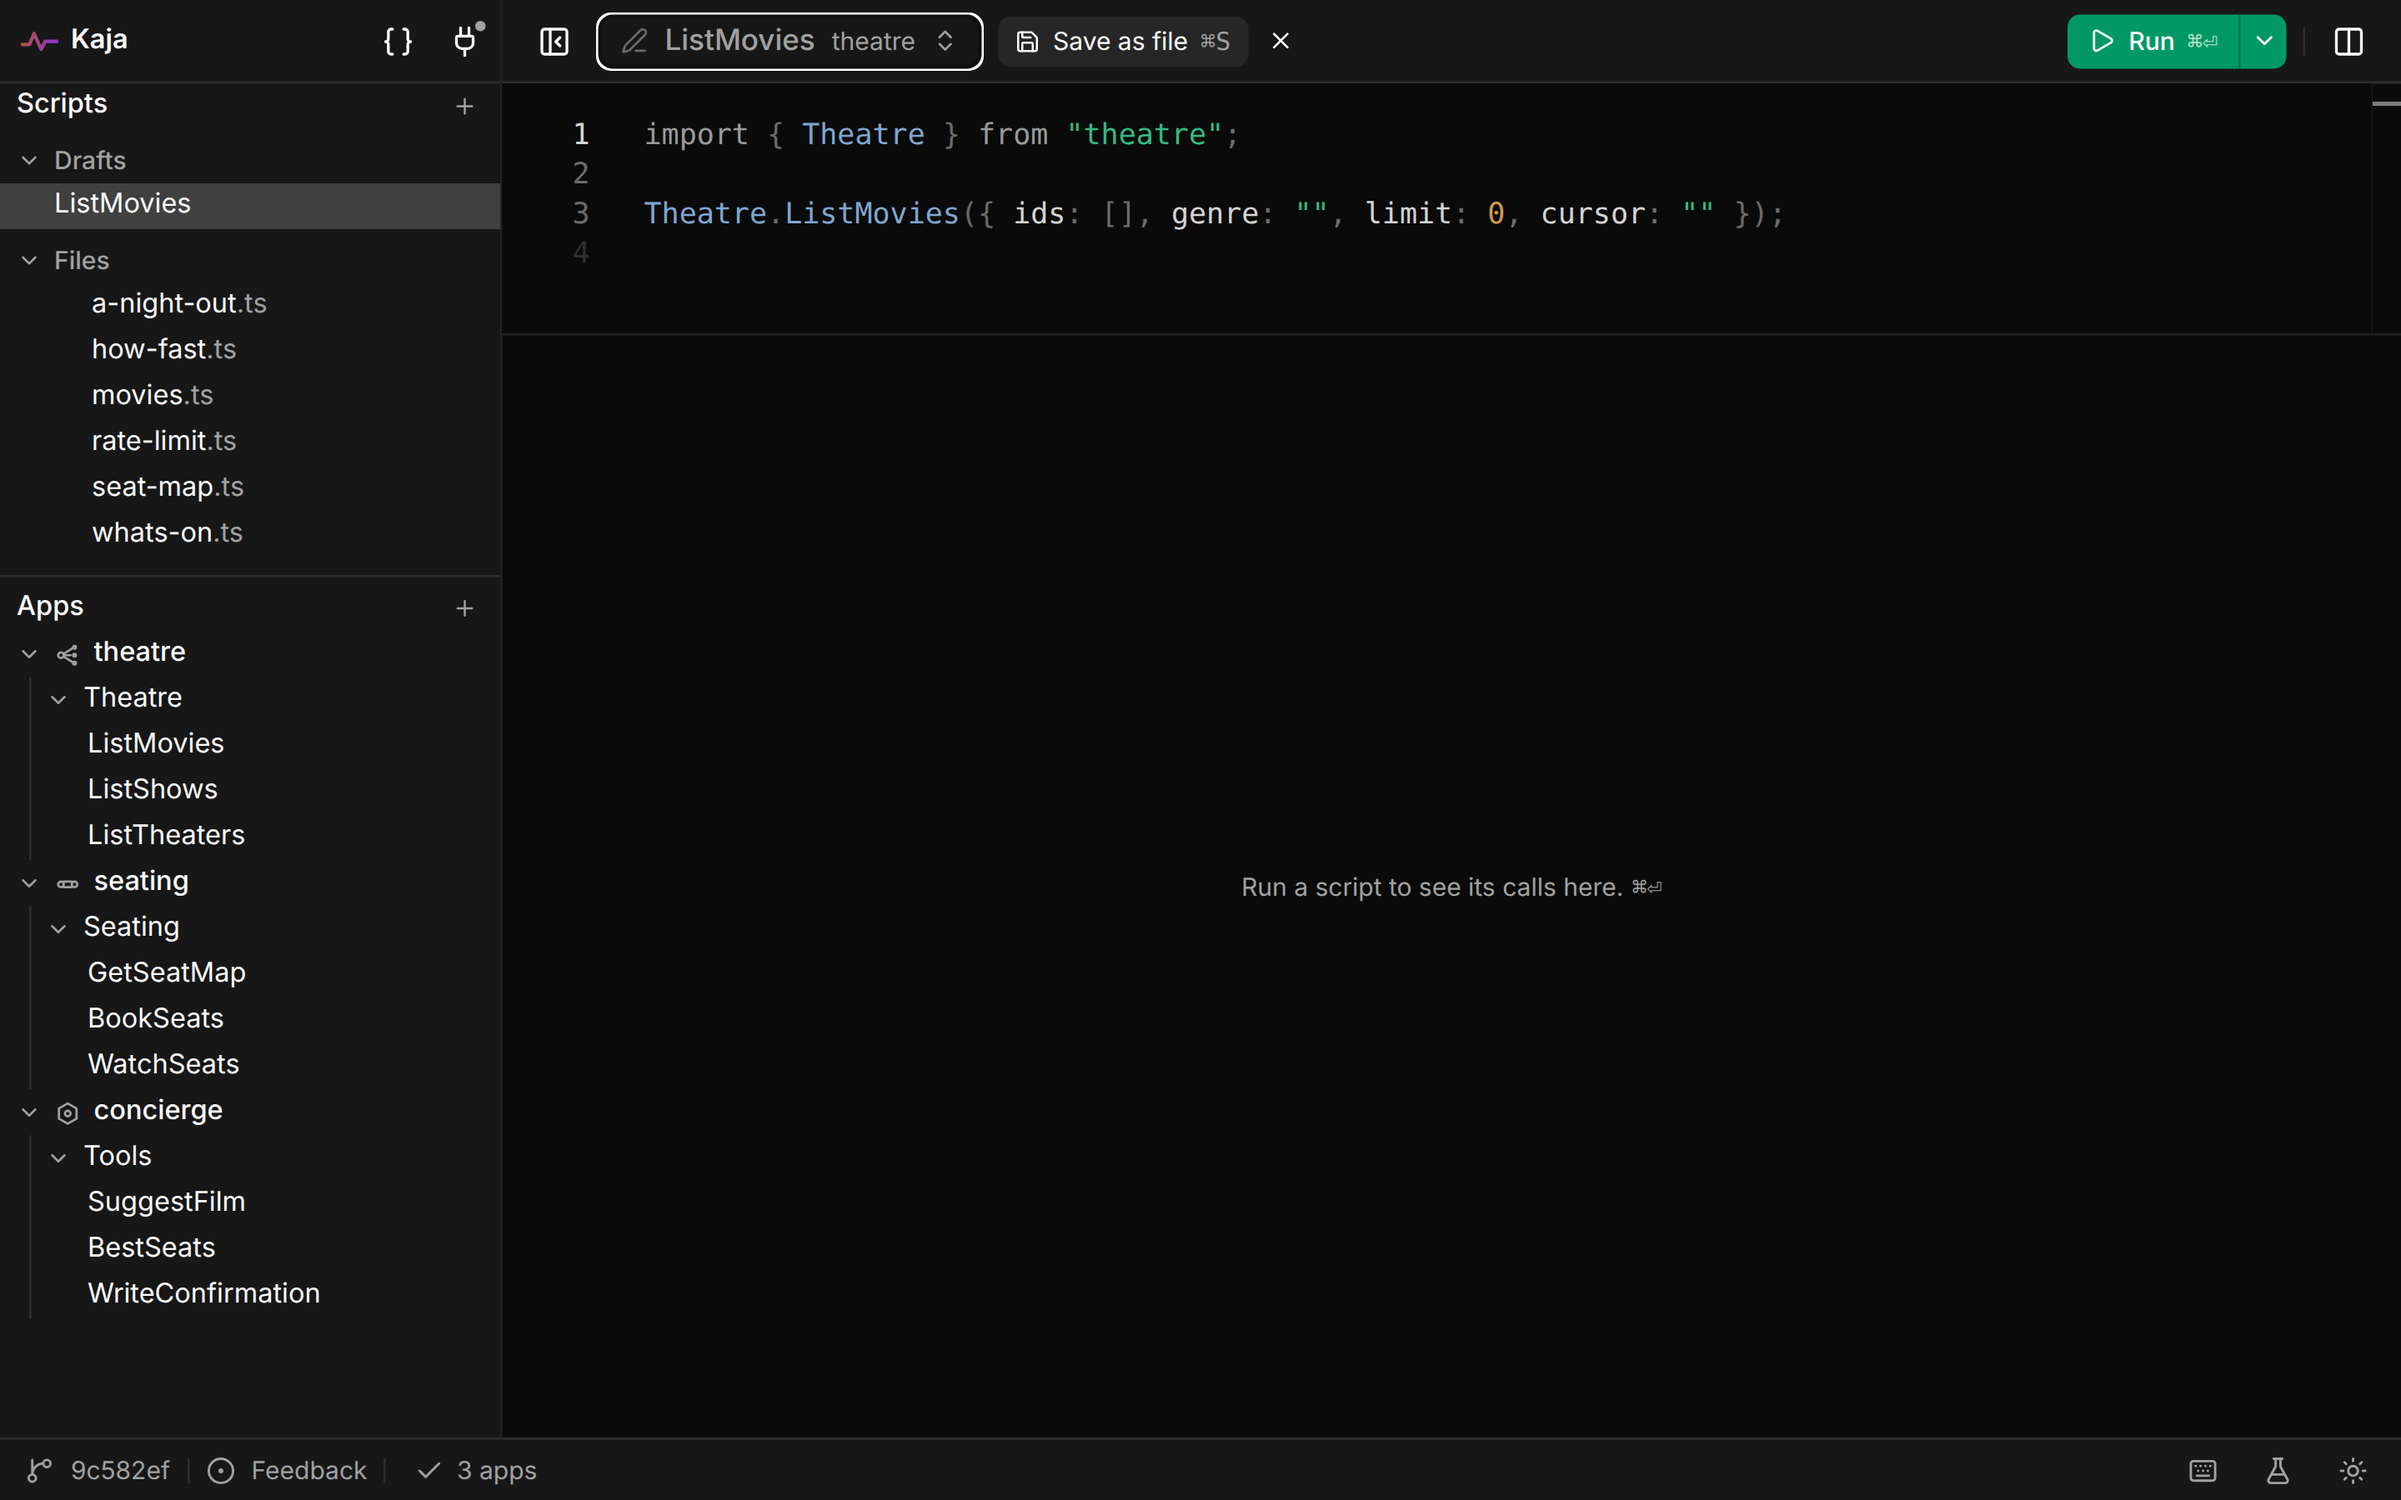
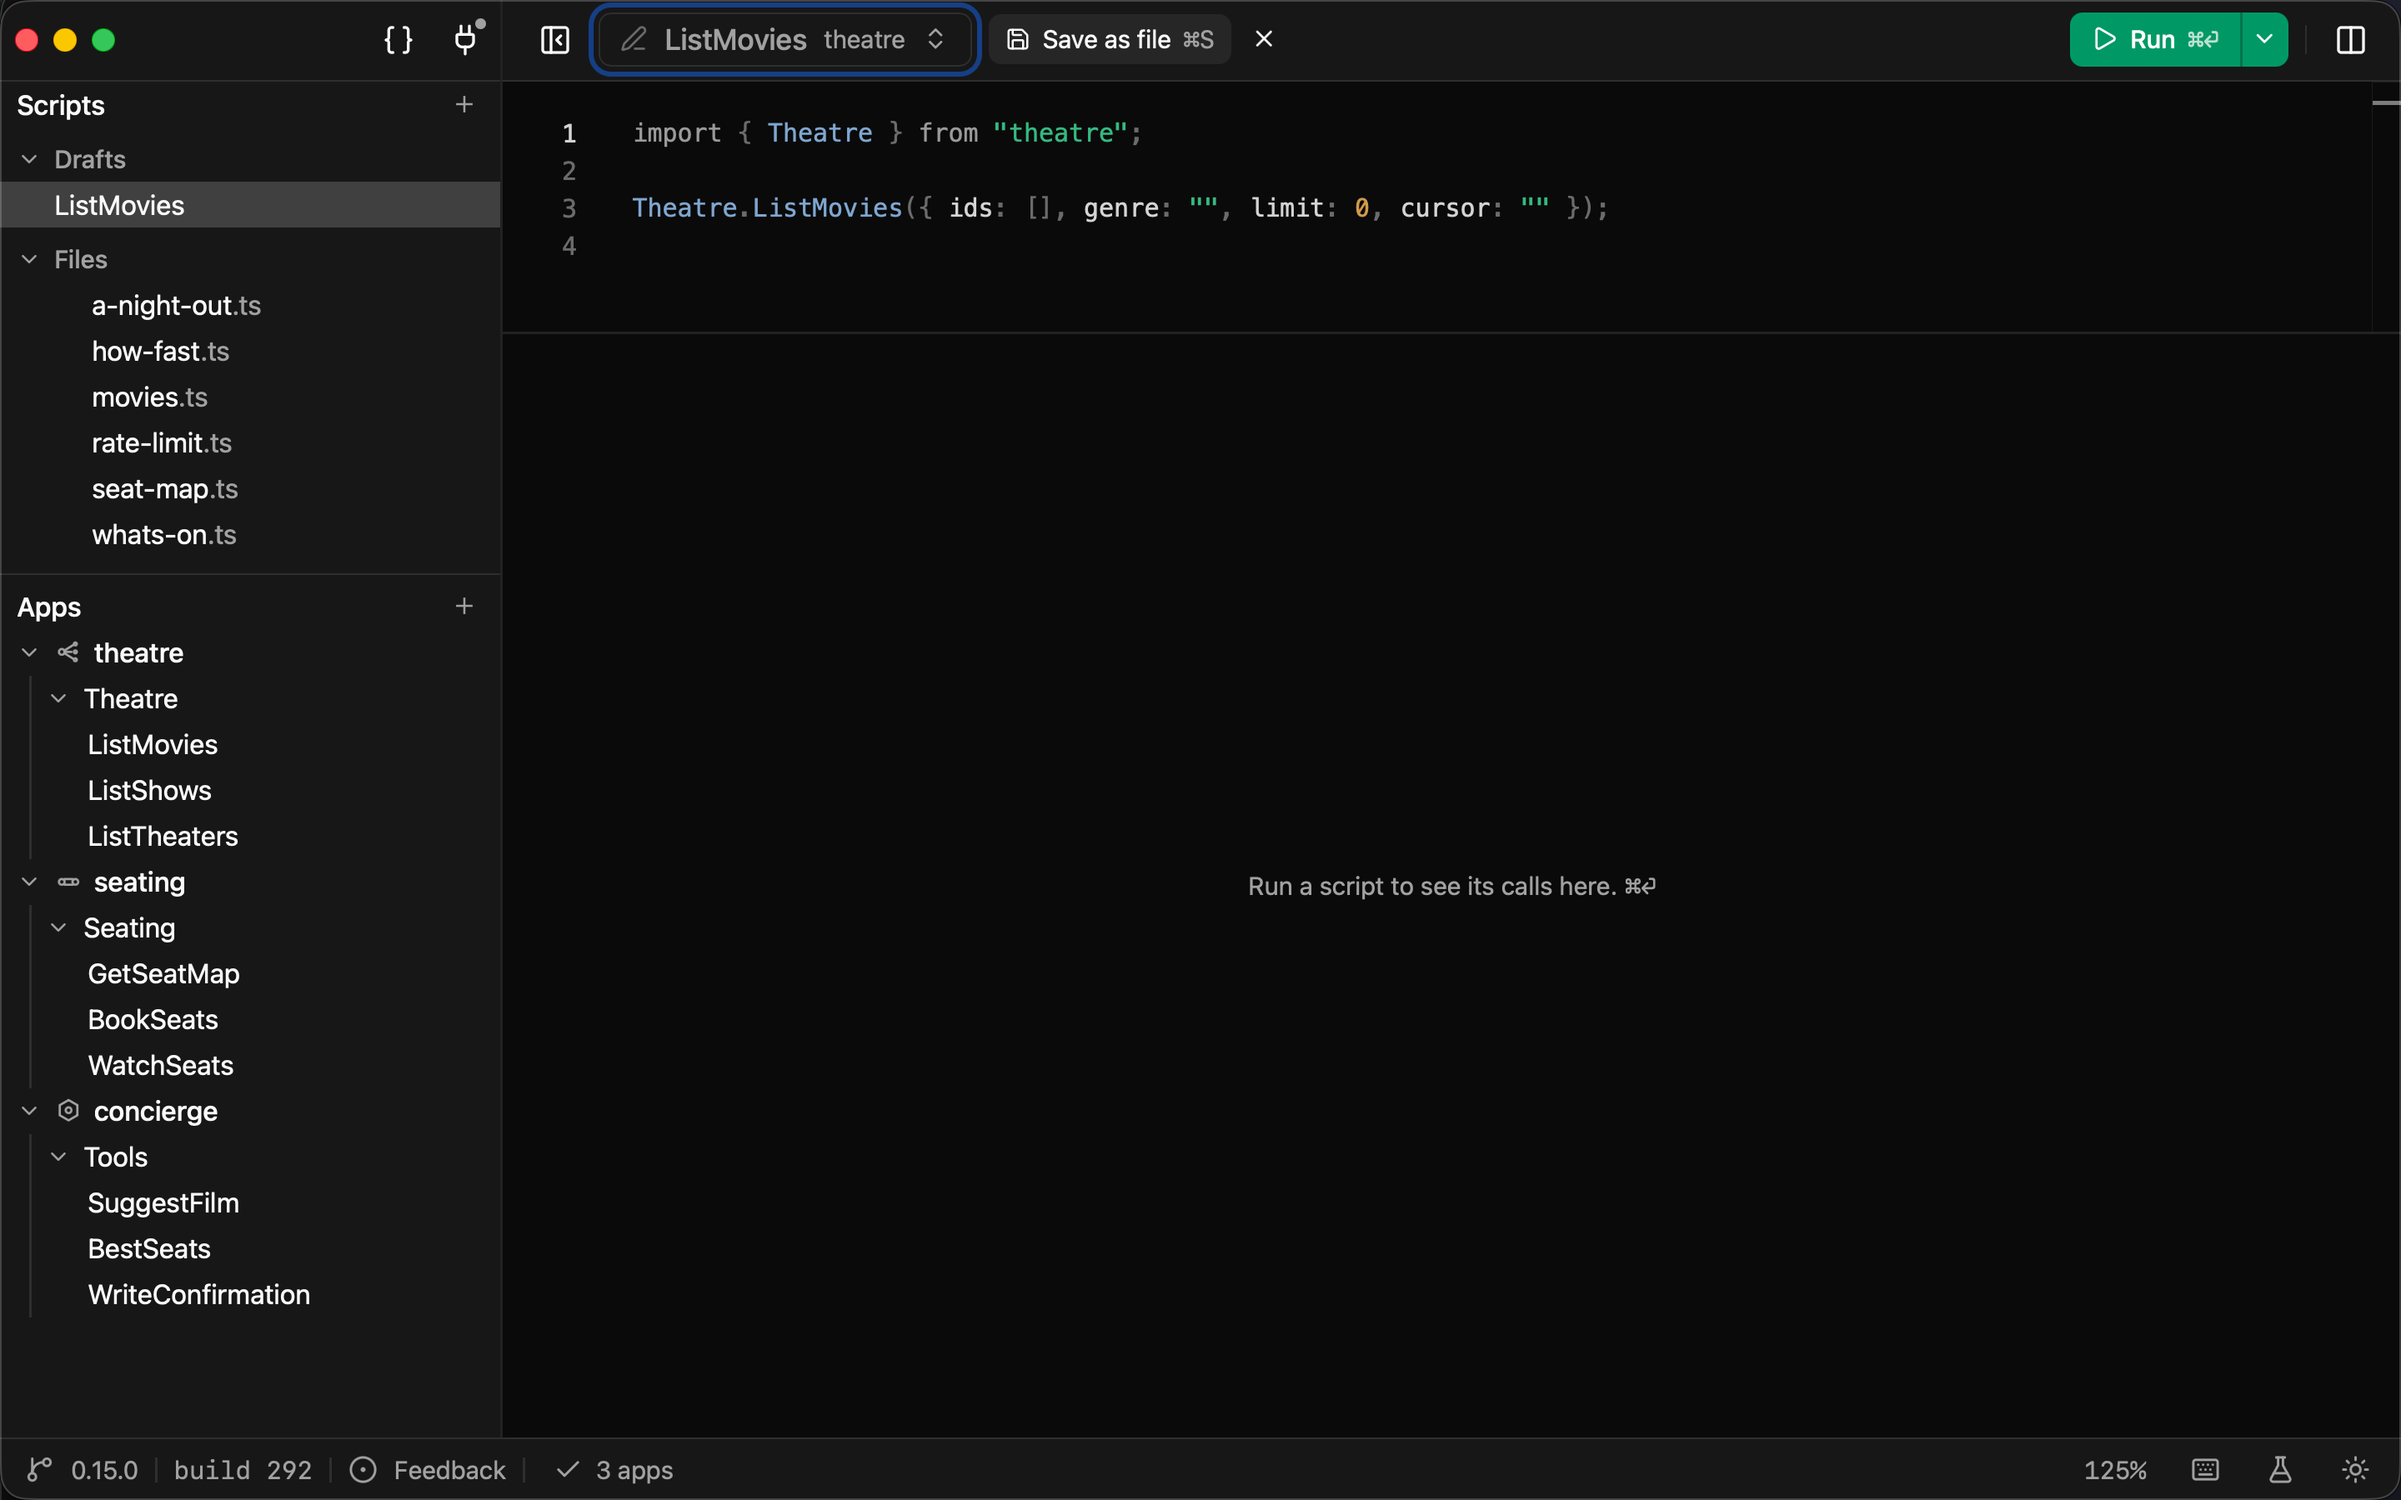
Refreshed the screenshots
A fresh `scripts/demo` set, replacing all eight shots under the same names.
The window now carries the traffic lights in the sidebar band rather than the
Kaja mark, which is what moved two crops: the stats percentiles crop drops the
title line and takes the tile row alone, and the docs' run figure starts below
the focused tab's ring.

Claude-Session: https://claude.ai/code/session_01JJmM2ZVbUiyQWn8YBGo7Ve

diff --git a/home/src/data/poster.ts b/home/src/data/poster.ts
@@ -138,8 +138,8 @@ export const features: Item[] = [
   {
     caption: "Percentiles computed from the calls the run already made.",
     shot: shots.stats,
-    crop: { x: 0.0, y: 0.006, w: 0.65, h: 0.125 },
-    highlight: { x: 0.385, y: 0.414, w: 0.385, h: 0.512 },
+    crop: { x: 0.0, y: 0.053, w: 0.65, h: 0.073 },
+    highlight: { x: 0.385, y: 0.02, w: 0.385, h: 0.95 },
     cropCell: "md:col-start-1 md:col-end-13 md:row-start-1",
     statementCell: "md:col-start-5 md:col-end-13 md:row-start-2",
     align: "right",
